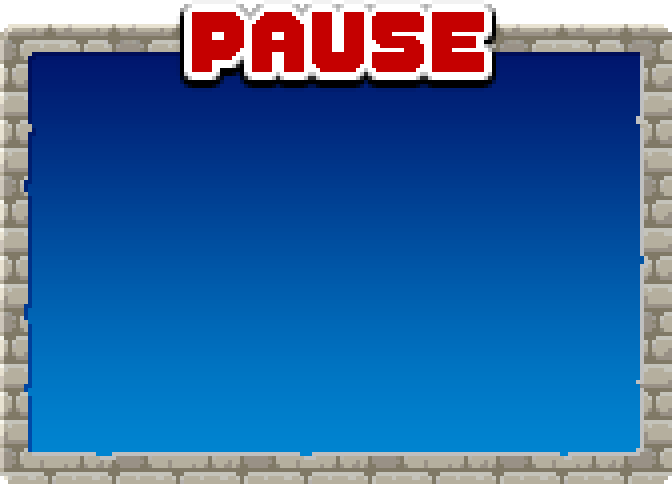
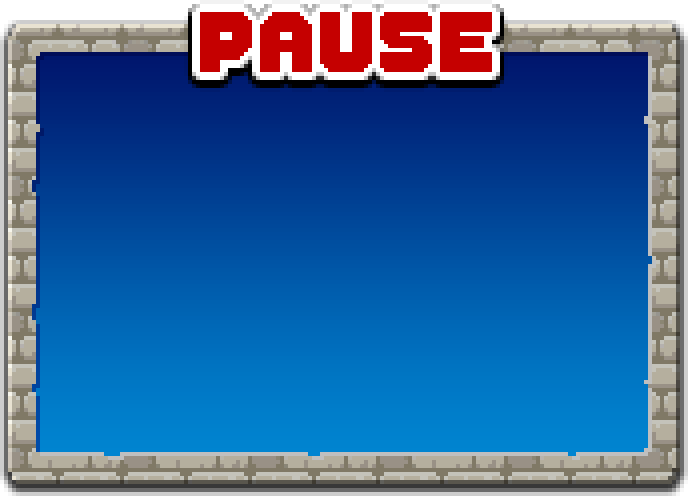
[modified] 설정 & 일시정지 팝업 배경 미세 조정

Changed region(s): [[0.0, 0.0, 1.0, 1.0], [0.4375, 0.0, 0.4688, 0.062]]

diff --git a/Classes/popup/SettingPopup.cpp b/Classes/popup/SettingPopup.cpp
@@ -67,7 +67,7 @@ void SettingPopup::initContentView() {
     
     popupBg = Sprite::create(DIR_IMG_COMMON + "common_bg_settings.png");
     popupBg->setAnchorPoint(ANCHOR_M);
-    popupBg->setPosition(Vec2MC(0, 24));
+    popupBg->setPosition(Vec2MC(0, 17));
     addContentChild(popupBg);
     
     // 효과음

diff --git a/Classes/game/ui/PausePopup.cpp b/Classes/game/ui/PausePopup.cpp
@@ -71,7 +71,7 @@ void PausePopup::initContentView() {
     
     popupBg = Sprite::create(DIR_IMG_COMMON + "common_bg_pause.png");
     popupBg->setAnchorPoint(ANCHOR_M);
-    popupBg->setPosition(Vec2MC(0, 2));
+    popupBg->setPosition(Vec2MC(0, -4));
     addContentChild(popupBg);
     
     // 효과음
